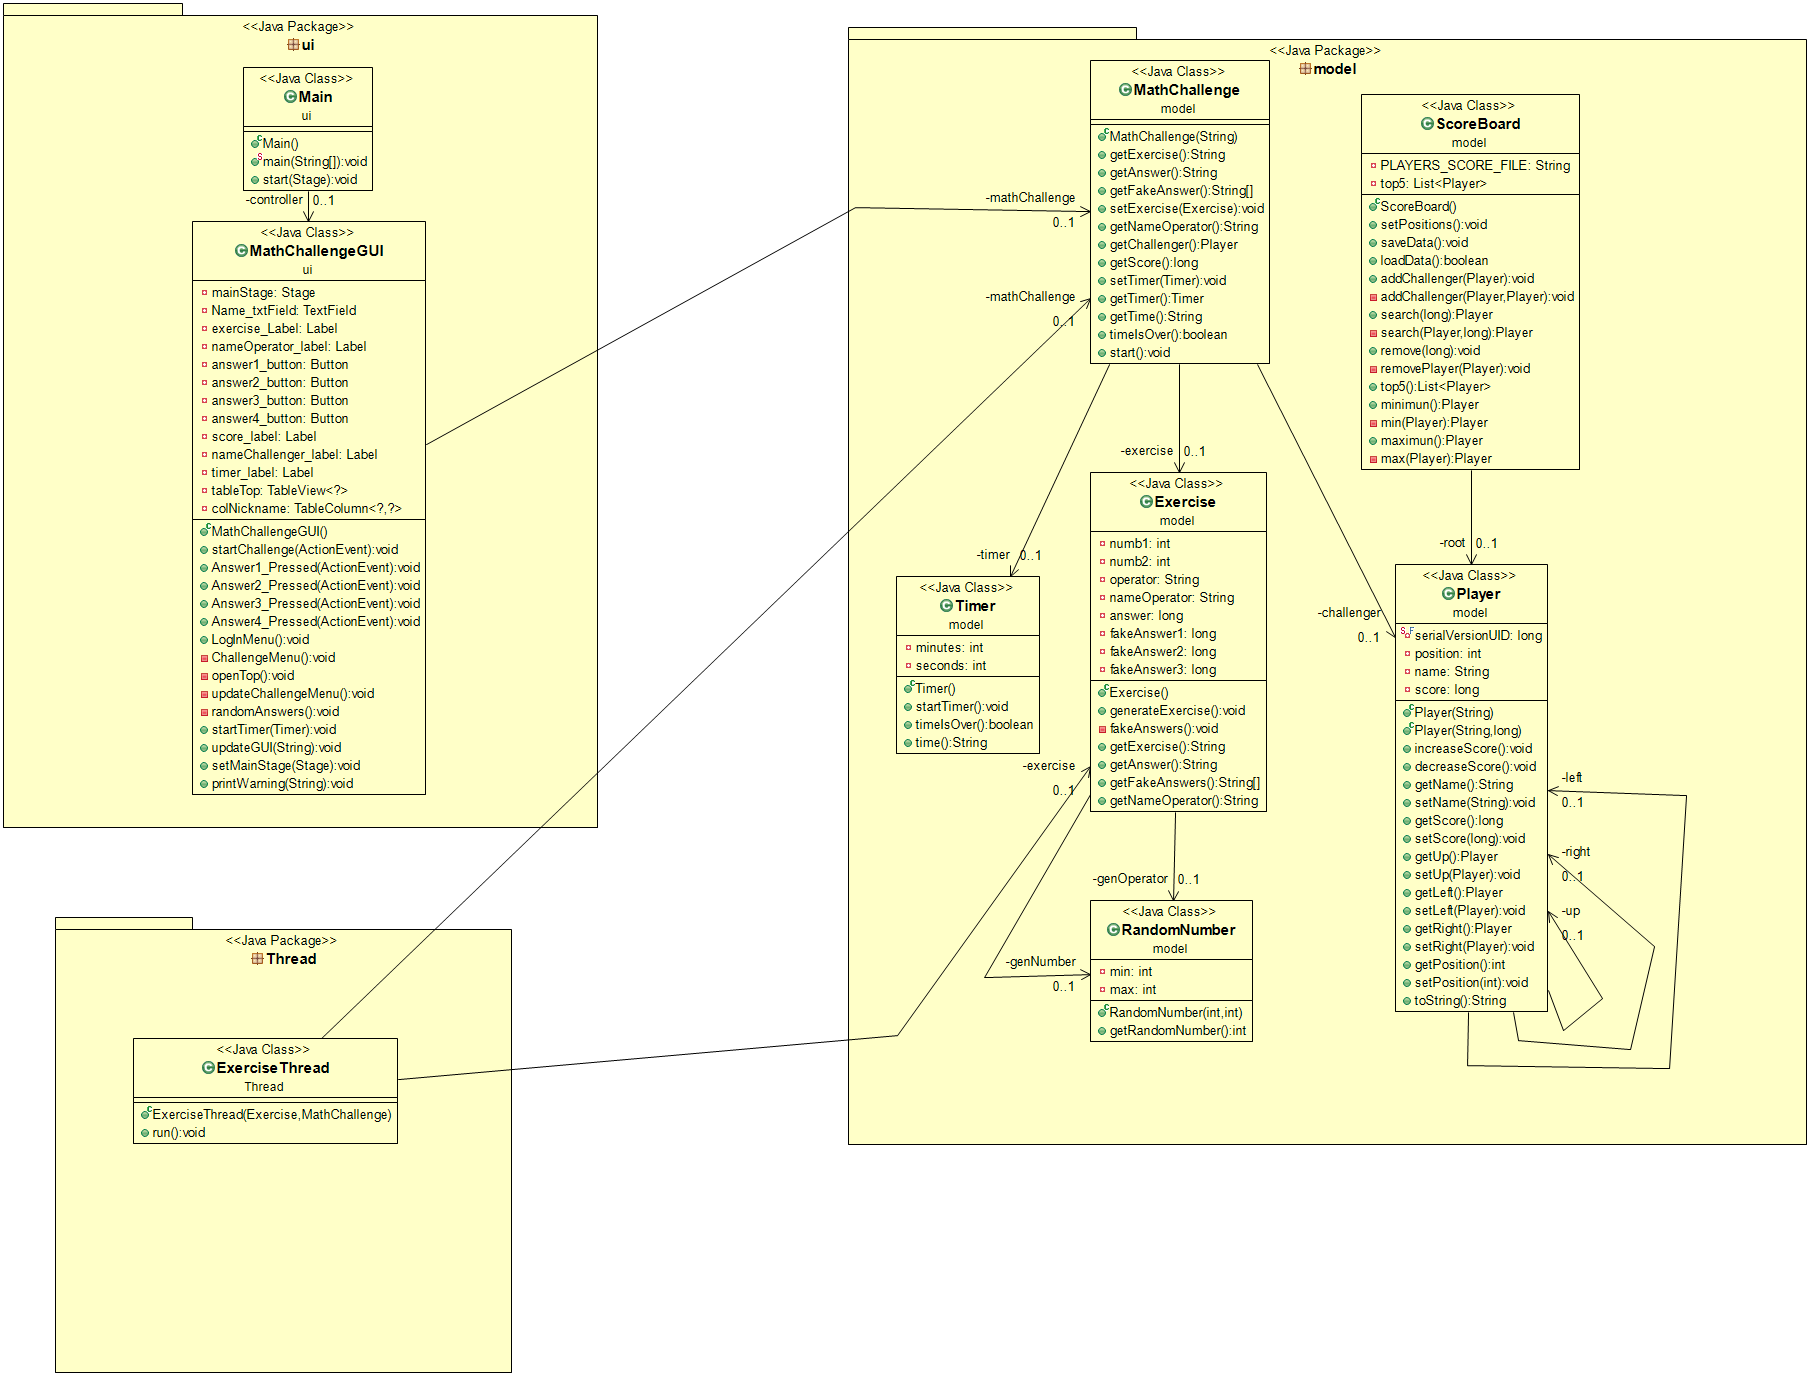
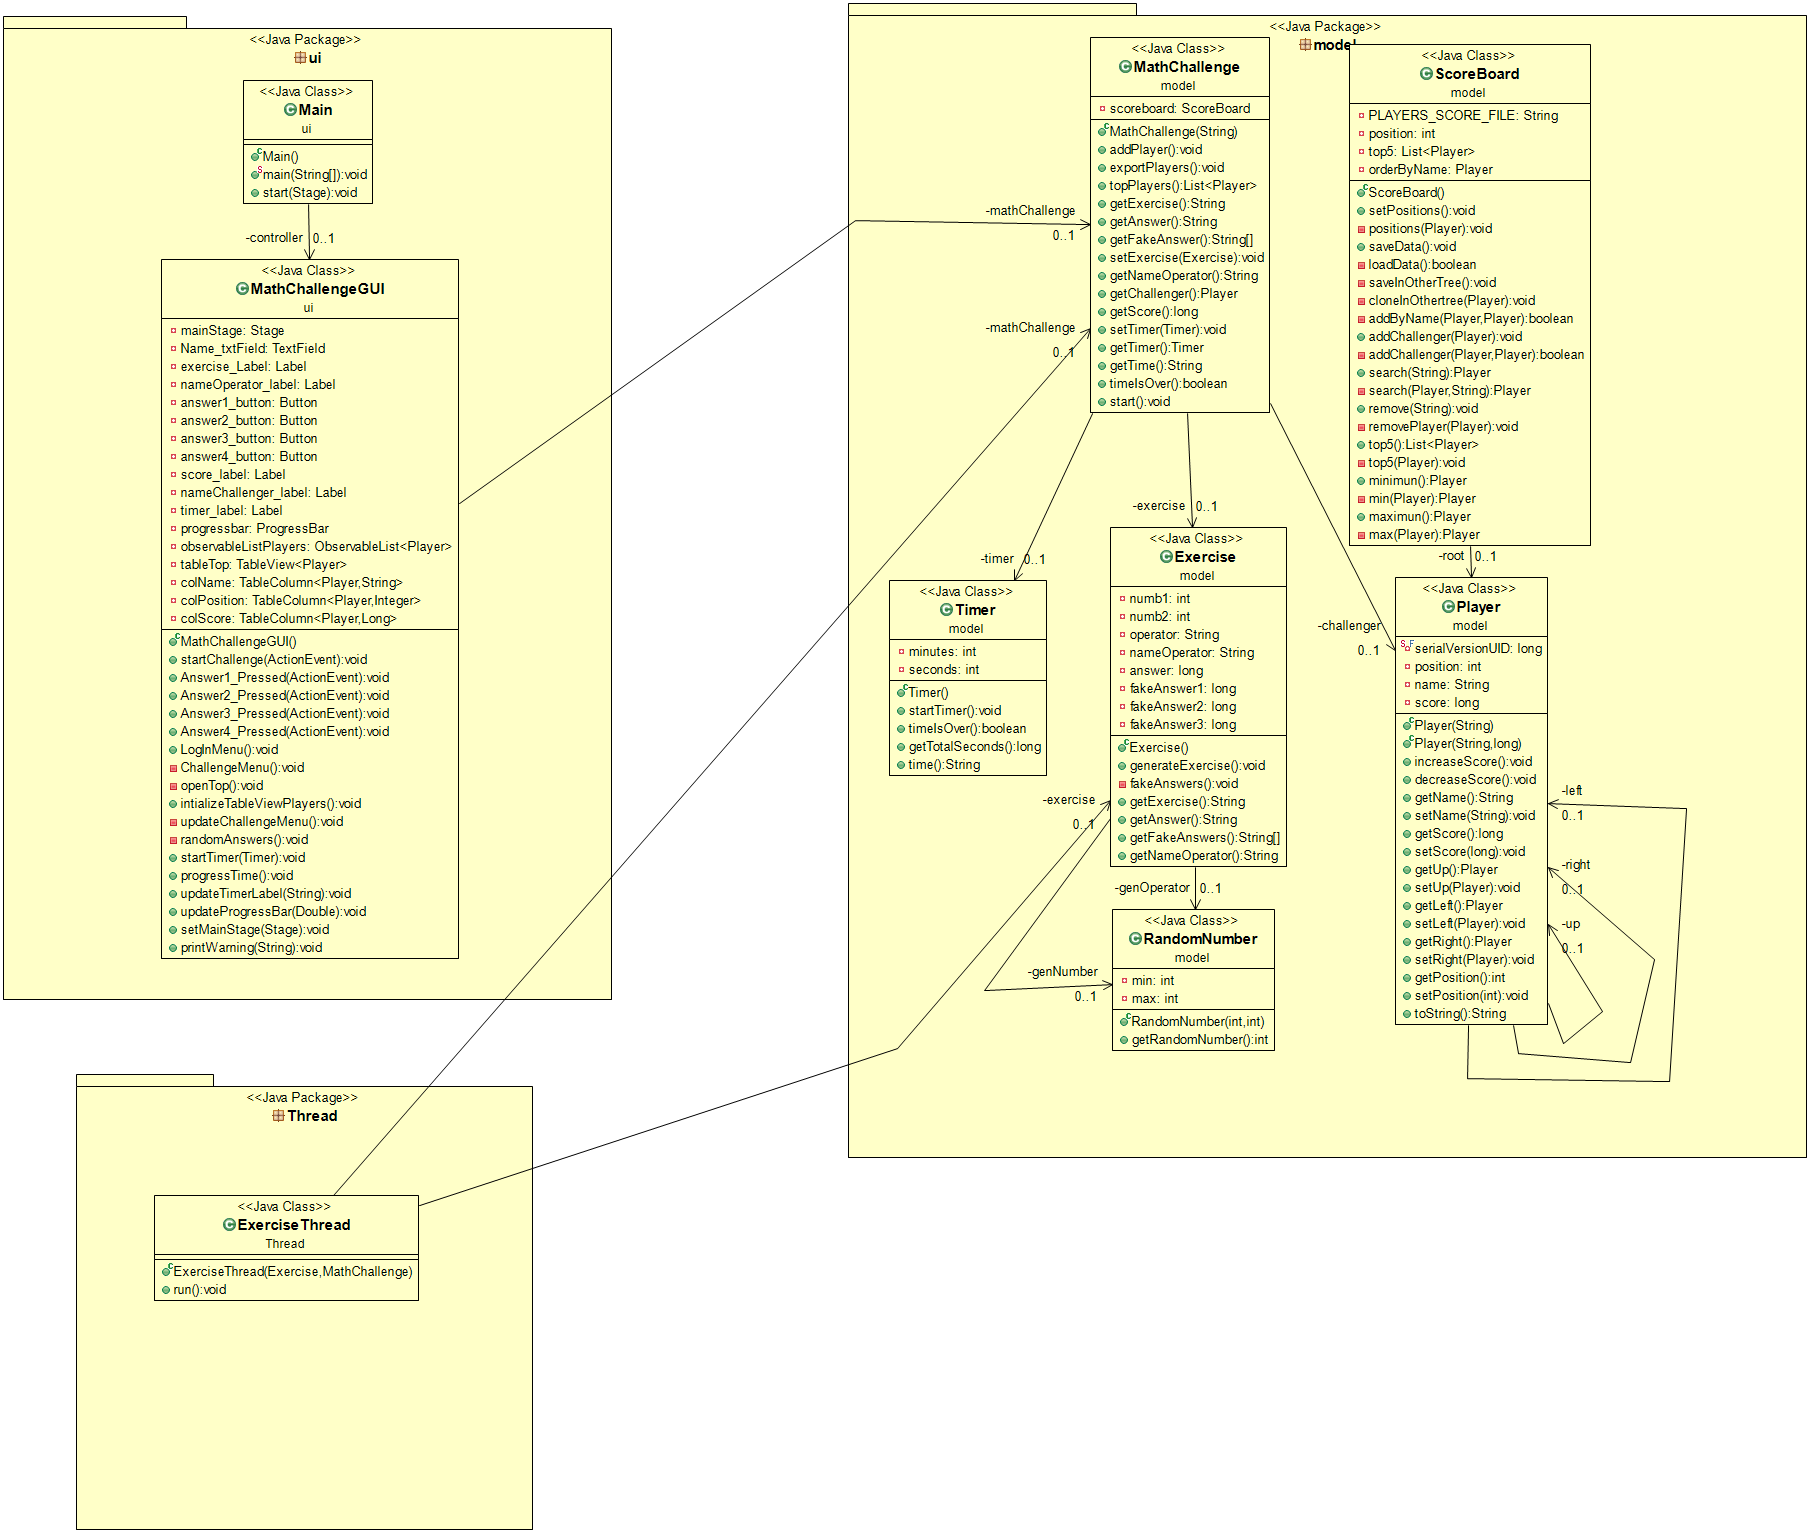
Delete a Search method is added
Have bugs :(

Changed region(s): [[0.4641, 0.0, 1.0, 0.8438], [0.0, 0.0, 0.3403, 1.0], [0.4641, 0.125, 0.495, 0.1562]]

diff --git a/src/ui/MathChallengeGUI.java b/src/ui/MathChallengeGUI.java
@@ -64,6 +64,14 @@ public class MathChallengeGUI {
     private TableColumn<Player, Integer> colPosition;
     @FXML
     private TableColumn<Player, Long> colScore;
+    @FXML
+    private TextField name_to_search;
+    @FXML
+    private Label searchStructure;
+
+   
+    
+
 
 	//Constructor void
 	public MathChallengeGUI() {
@@ -127,6 +135,35 @@ public class MathChallengeGUI {
 		}
 		updateChallengeMenu();
 	}
+	
+	@FXML
+	public void deletePlayer(ActionEvent event) {
+		/*
+		mathChallenge.deleteChallenger();
+		try {
+			openTop();
+			mathChallenge.exportPlayers();//exportar
+		} catch (IOException e) {
+			
+		}
+		*/
+		
+	}
+
+	@FXML
+	public void searchPlayer(ActionEvent event) {
+		String name = "";
+		String answer = "";
+		
+		name = name_to_search.getText();
+		answer = mathChallenge.searchChallenger(name);
+		
+		searchStructure.setText(answer);
+		
+	}
+	
+	
+	
 
 	public void LogInMenu() throws IOException {
 		FXMLLoader fxmlLoader = new FXMLLoader(getClass().getResource("login_pane.fxml"));
@@ -295,6 +332,8 @@ public class MathChallengeGUI {
 		progressbar.setProgress(progress);
 
 	}
+	
+	
 
 
 	//Getters & Setters
@@ -306,5 +345,8 @@ public class MathChallengeGUI {
 	public void printWarning(String message) {
 		JOptionPane.showMessageDialog(null, message);
 	}
+	
+	
+	
 
 }

diff --git a/src/model/ScoreBoard.java b/src/model/ScoreBoard.java
@@ -135,7 +135,7 @@ public class ScoreBoard {
 			if(search(n.getName()) != null) {
 				Player oldSave = search(n.getName());
 				if(oldSave.getScore() < n.getScore()) {
-					remove(oldSave.getName());
+					removePlayer(oldSave);
 					addChallenger(n, root);
 				} else {
 					
@@ -189,12 +189,9 @@ public class ScoreBoard {
 		}
 	}
 	
-	public void remove(String name) {
-		Player pRem = search(name);
-		removePlayer(pRem);
-	}
 	
-	private void removePlayer(Player rem) {
+	
+	public void removePlayer(Player rem) {
 		if(rem != null) {
 			if(rem.getLeft() == null && rem.getRight() == null) { // CASO 1 el nodo es una hoja
 				if(rem == root) {			// el arbol solo tiene un elemento

diff --git a/src/model/MathChallenge.java b/src/model/MathChallenge.java
@@ -26,12 +26,23 @@ public class MathChallenge {
 	
 	public List<Player> topPlayers() {
 		List<Player> topPlayer = scoreboard.top5();
-		topPlayer.add(challenger);
-			try {
-					topPlayer.remove(6);
-			} catch (IndexOutOfBoundsException e) {
-			}
+		if (challenger != null) {
+			topPlayer.add(challenger);
+		}
+
+		try {
+			topPlayer.remove(6);
+		} catch (IndexOutOfBoundsException e) {
+		}
 		return topPlayer;
+	}
+	
+	public void deleteChallenger(){
+		scoreboard.removePlayer(challenger);
+	}
+	
+	public String searchChallenger(String name) {
+		return scoreboard.search(name).toString();
 	}
 	
 	public String getExercise() {
